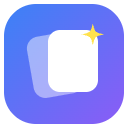
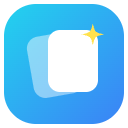
웹 버전 배포 2026-10-28 10:51

diff --git a/ui/brand.js b/ui/brand.js
@@ -1,8 +1,8 @@
-// 백코치 캐러셀 로고(2026-10-28 새로 만듦 — 쇼츠비서 고리와 다르게, 캐러셀 "카드 겹침" 모양 + 보라 파랑).
+// 백코치 캐러셀 로고(2026-10-28 새로 만듦 — 쇼츠비서 고리와 다르게, 캐러셀 "카드 겹침" 모양 + 하늘 파랑, 사용자 선택 A·하늘).
 // 모양·색을 바꾸려면 이 파일만 고치고 `npm run icons` 로 확장 아이콘 PNG 를 다시 만든다.
 // DOM 없이 SVG 문자열만 만든다(앱바·설정·아이콘 생성 스크립트가 같이 쓴다). xmlns 는 쓰지 않는다(HTML 안 인라인 SVG).
-export const BRAND_FROM = '#3B82F6'; // 파랑
-export const BRAND_TO = '#8B5CF6';   // 보라
+export const BRAND_FROM = '#22D3EE'; // 하늘
+export const BRAND_TO = '#3B82F6';   // 파랑
 const SPARK = '#FFE14D';
 
 let seq = 0;

diff --git a/ui/icons.js b/ui/icons.js
@@ -41,7 +41,7 @@ export function icon(name, { size = 22, cls = '' } = {}) {
   return t.content.firstElementChild;
 }
 
-/** 앱바 로고 마크 — 모양·색은 ui/brand.js(카드 겹침, 보라 파랑) */
+/** 앱바 로고 마크 — 모양·색은 ui/brand.js(카드 겹침, 하늘 파랑) */
 export function logoMark(size = 30) {
   const t = document.createElement('template');
   t.innerHTML = logoSvg(size);
